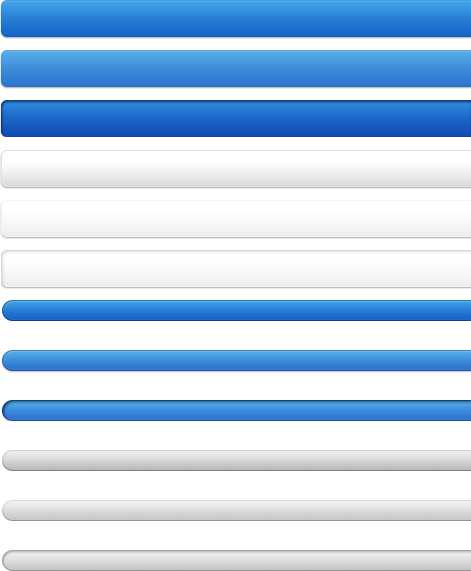
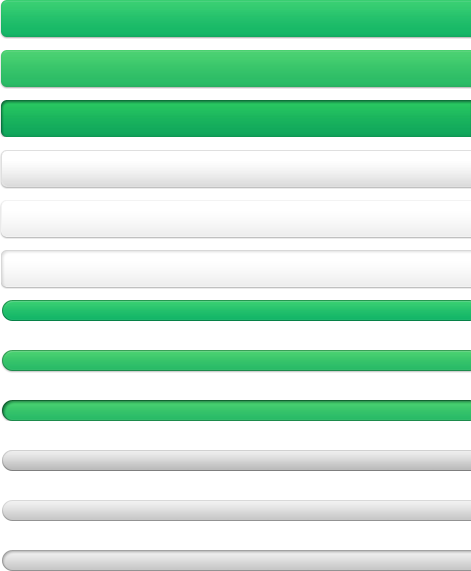
modified:   view/common.css 	modified:   view/image/button-right.png 	modified:   view/image/button.png 	modified:   view/image/nav.gif 	plugin/view_apple/

diff --git a/view/common.css b/view/common.css
@@ -164,7 +164,7 @@ a.button {cursor: default; background: url("image/button-right.png") 100% 0 no-r
 a.button span{background: url("image/button.png") no-repeat; display: block; padding: 8px 18px 10px 26px;}
 
 a.button.bigblue {background-position: 100% 0px; height: 40px;}
-a.button.bigblue span {background-position: 0px 0px; color: #FFFFFF; font-size: 16px; text-shadow: 0 -1px #367BBB;}
+a.button.bigblue span {background-position: 0px 0px; color: #FFFFFF; font-size: 16px; text-shadow: 0 -1px #007132;}
 a.button.bigblue:hover {background-position: 100% -50px; text-decoration: none;}
 a.button.bigblue:hover span{background-position: 0 -50px;}
 a.button.bigblue:hover {background-position: 100% -50px; text-decoration: none;}
@@ -172,21 +172,21 @@ a.button.bigblue:active {background-position: 100% -100px; text-decoration: none
 a.button.bigblue:active span{background-position: 0 -100px;}
 
 a.button.biggrey {background-position: 100% -150px; height: 40px;}
-a.button.biggrey span {background-position: 0px -150px; color: #888888; font-size: 16px; text-shadow: 0 -1px #CCCCCC;}
+a.button.biggrey span {background-position: 0px -150px; color: #888888; font-size: 16px; text-shadow: 0 1px #FFFFFF;}
 a.button.biggrey:hover {background-position: 100% -200px; text-decoration: none;}
 a.button.biggrey:hover span{background-position: 0 -200px; }
 a.button.biggrey:active {background-position: 100% -250px; text-decoration: none;}
 a.button.biggrey:active span{background-position: 0 -250px;}
 
 a.button.smallblue {background-position: 100% -300px;  height: 21px;}
-a.button.smallblue span {background-position: 0px -300px; padding: 2px 10px 6px 20px;color: #FFFFFF; font-size: 12px; text-shadow: 0 -1px #888888;}
+a.button.smallblue span {background-position: 0px -300px; padding: 2px 10px 6px 20px;color: #FFFFFF; font-size: 12px; text-shadow: 0 1px #888888;}
 a.button.smallblue:hover {background-position: 100% -350px; text-decoration: none;}
 a.button.smallblue:hover span{background-position: 0 -350px; }
 a.button.smallblue:active {background-position: 100% -400px; text-decoration: none;}
 a.button.smallblue:active span{background-position: 0 -400px;}
 
 a.button.smallgrey {background-position: 100% -450px; height: 21px;}
-a.button.smallgrey span {background-position: 0px -450px; padding: 2px 10px 6px 20px; color: #888888; font-size: 12px; text-shadow: 0 -1px #CCCCCC;}
+a.button.smallgrey span {background-position: 0px -450px; padding: 2px 10px 6px 20px; color: #888888; font-size: 12px; text-shadow: 0 1px #CCCCCC;}
 a.button.smallgrey:hover {background-position: 100% -500px; text-decoration: none;}
 a.button.smallgrey:hover span{background-position: 0 -500px; }
 a.button.smallgrey:active {background-position: 100% -550px; text-decoration: none;}
@@ -271,16 +271,15 @@ span.nopic {width: 54px; height: 54px; background: url(image/nopic.gif) no-repea
 	#user #pm_userlist a {color: #454545; display: block; float: left; width: 100%; padding: 4px 0px; text-indent: 4px; text-decoration: none;}
 	#user #pm_userlist a:hover {background: #BB0000; color: #FFFFFF;}
 	#user #pm_userlist a:hover b{background: #BB0000; color: #FFFFFF;}
-#nav {}
 	#search {width: 124px; height: 19px; margin-top: 4px; overflow: hidden; float: right; background: url(image/nav_search.gif) no-repeat; text-decoration: none; cursor: default;}
 	#search.hover{background-position: 0px -20px; cursor: default;}
 	#search input{width: 100px; height: 19px; border: 0px; background: transparent; padding: 2px 0px 0px 24px;}
 #body {width: 100%; margin: auto; background: #EFEFEF; overflow: hidden; padding-top: 8px; padding-bottom: 8px;}
-	#nav {width: 100%; margin: auto; height: 31px; text-shadow: 1px 1px 0 #FFFFFF; }
-	#nav td{background: url(image/nav.gif) 0px 31px;}
-	#nav td.left {width: 10px; background-position: 0px 0px;}
-	#nav span.sep {width: 10px; height: 31px; line-height: 31px; background: url(image/nav.gif) -10px 0px; display: inline-block; overflow: hidden; vertical-align:middle; margin-top:-1px\9; margin-top:-0px\0; *margin-top: -2px; _margin-top: -2px; margin-right: 4px;}
-	#nav td.right {width: 10px; background-position: -20px 0px;}
+	#nav {width: 100%; margin: auto; height: 18px; text-shadow: 1px 1px 0 #FFFFFF; }
+	#nav td{}
+	#nav td.left {width: 0px; background-position: 0px 0px;}
+	#nav span.sep {width: 10px; height: 18px; line-height: 18px; background: url(image/nav.gif) -10px -8px; display: inline-block; overflow: hidden; vertical-align:middle; margin-top:-1px\9; margin-top:-0px\0; *margin-top: -2px; _margin-top: -2px; margin-right: 4px;}
+	#nav td.right {width: 0px; background-position: -20px 0px;}
 	#nav td.center .icon {vertical-align: middle;}
 #footer {width: 100%; margin: auto; border-top: 4px solid #454545; color: #888888; background: #3D4351; word-wrap:break-word; word-break:break-all;}
 #footer pre {background: none repeat scroll 0 0 #4C525F; border: 1px solid #363C4A; color: #7D828E; margin: 8px;}
